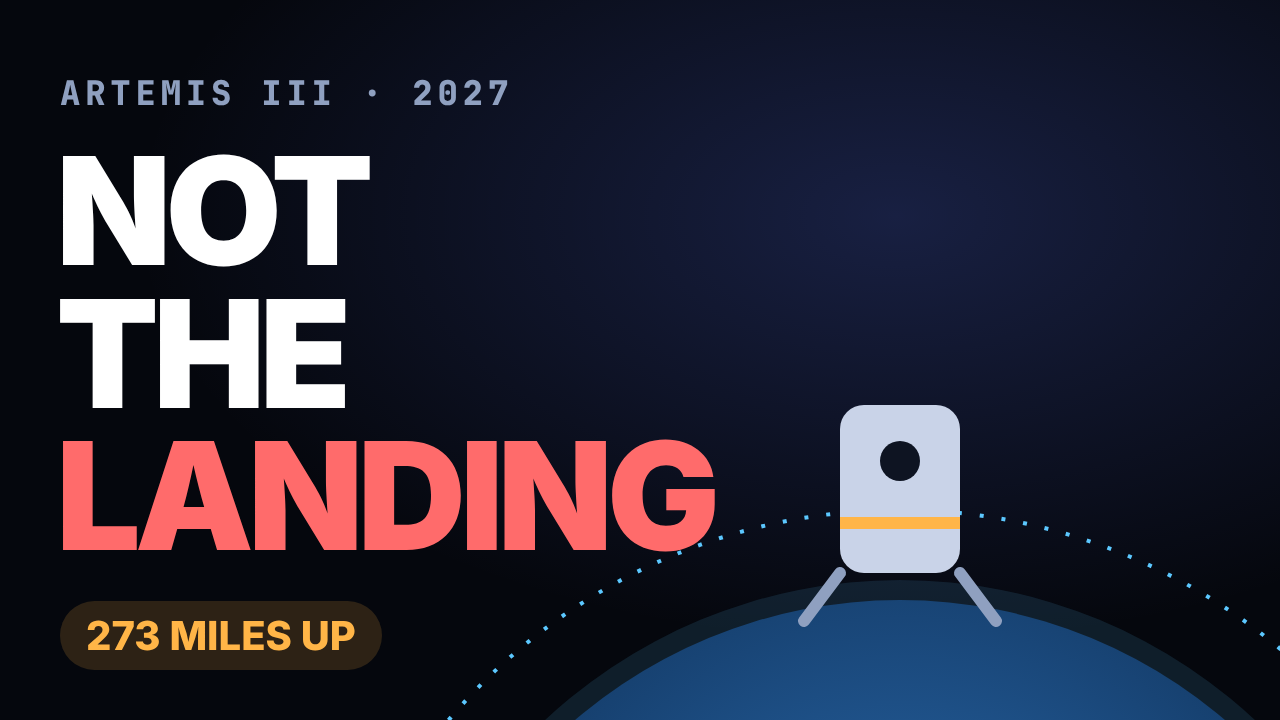
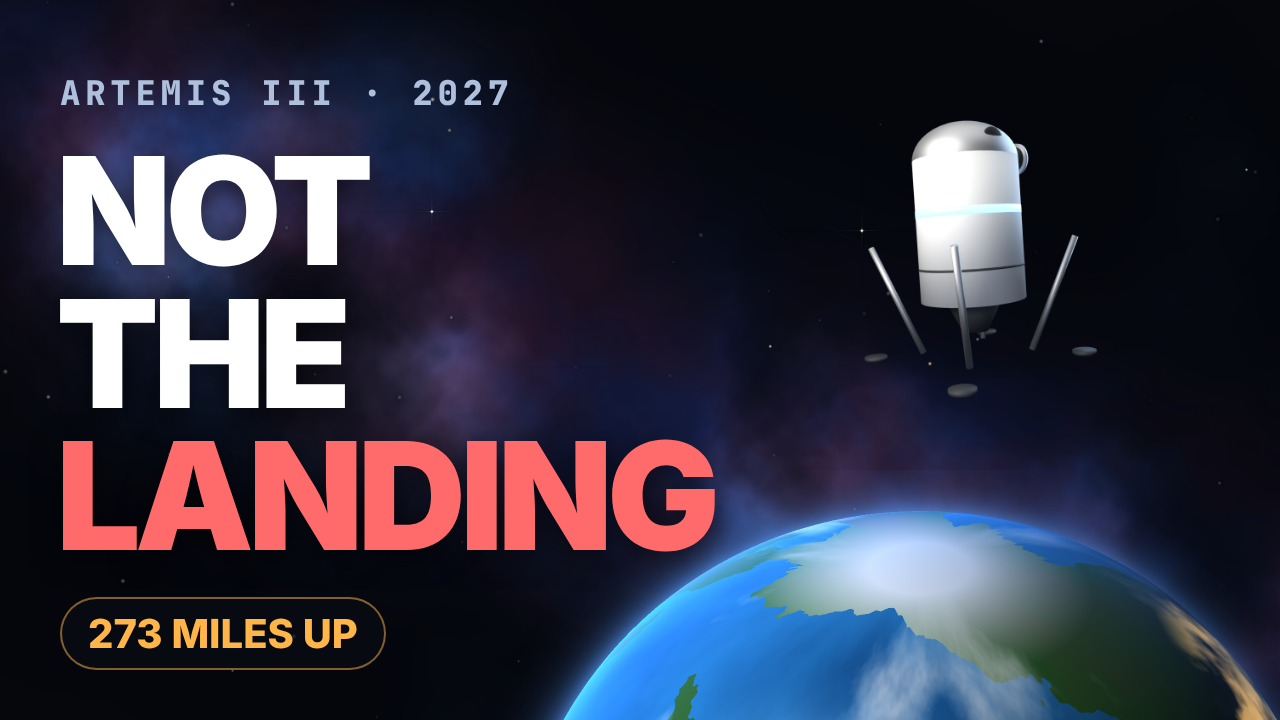
Artemis III long-form v2: 3D composite, new thumbnail
Claude-Session: https://claude.ai/code/session_01L5cGZeAXd6hyyDUBft6mKN

diff --git a/space-whatif/artemis3/build/thumb/thumb2.html b/space-whatif/artemis3/build/thumb/thumb2.html
@@ -1,0 +1,9 @@
+<!doctype html><meta charset="utf-8"><body style="margin:0;width:1280px;height:720px;overflow:hidden;background:#05070D;font-family:Inter,Arial,sans-serif;position:relative">
+<div style="position:absolute;left:-300px;top:-200px;width:2000px;height:1230px;background:url(nebula.png) 0 0/2000px 1230px;opacity:.7"></div>
+<div style="position:absolute;inset:0;background:url(stars.png) 0 0/2200px 1230px"></div>
+<img src="earth.png" style="position:absolute;left:470px;top:470px;width:900px;height:900px">
+<img src="lander3d.png" style="position:absolute;left:800px;top:70px;width:340px;height:340px">
+<div style="position:absolute;left:60px;top:70px;font:800 34px 'JetBrains Mono',monospace;letter-spacing:.14em;color:#AFC0DD">ARTEMIS III · 2027</div>
+<div style="position:absolute;left:56px;top:140px;font:900 150px/0.95 Inter,Arial;letter-spacing:-.04em;color:#fff;text-shadow:0 6px 30px rgba(0,0,0,.6)">NOT<br>THE<br><span style="color:#FF6B6B">LANDING</span></div>
+<div style="position:absolute;left:60px;bottom:50px;font:800 40px Inter;color:#FFB547;background:rgba(10,12,20,.75);border:2px solid rgba(255,181,71,.5);padding:10px 26px;border-radius:999px">273 MILES UP</div>
+</body>
